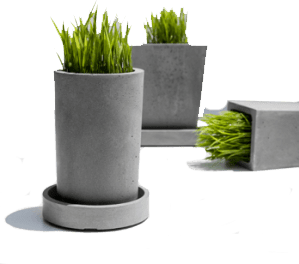
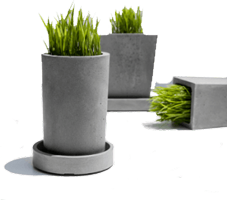
fx

diff --git a/stimlex/client_build/index.html b/stimlex/client_build/index.html
@@ -13,8 +13,8 @@
 
 	<meta property="og:type" content="website"/> 
 	<meta property="og:image" content="photo-og.png">
-	<meta property="og:image:width" content="299">
-	<meta property="og:image:height" content="264">
+	<meta property="og:image:width" content="227">
+	<meta property="og:image:height" content="200">
 	<meta property="og:description" content="Декоративные изделия из архитектурного бетона">
 	<meta property="og:title" content="Stimlex">
 
@@ -67,12 +67,6 @@
 				<button class="btn-white-mob" data-remodal-target="callback">Заказать звонок</button>
 
 				<img class="header__decorLeft" src="./images/vase-sm.png" alt role="presentation">
-
-
-				<!-- <img class="header__decorRight" src="./images/vase-big.png" alt role="presentation"> -->
-				<!-- <img class="header__decorRight" srcset="./images/vase-big-mob.png,
-				./images/vase-big.png"
-				src="./images/vase-big.png" alt role="presentation"> -->
 
 				<picture class="header__decorRight">
 					<source media="(max-width: 767px)" srcset="./images/vase-big-mob.png">
@@ -1006,7 +1000,7 @@
 			<div class="footer__box">
 				<div class="footer__logo">
 					<a href="index.html">
-						<img src="images/logo.png" alt="Stimlex" title="Stimlex">
+						<img src="./images/logo.png" alt="Stimlex" title="Stimlex">
 					</a>
 					<p class="footer__desc">Продажа изделий <br> из мытого бетона</p>
 				</div>

diff --git a/stimlex/client_src/index.html b/stimlex/client_src/index.html
@@ -13,8 +13,8 @@
 
 	<meta property="og:type" content="website"/> 
 	<meta property="og:image" content="photo-og.png">
-	<meta property="og:image:width" content="299">
-	<meta property="og:image:height" content="264">
+	<meta property="og:image:width" content="227">
+	<meta property="og:image:height" content="200">
 	<meta property="og:description" content="Декоративные изделия из архитектурного бетона">
 	<meta property="og:title" content="Stimlex">
 
@@ -67,12 +67,6 @@
 				<button class="btn-white-mob" data-remodal-target="callback">Заказать звонок</button>
 
 				<img class="header__decorLeft" src="./images/vase-sm.png" alt role="presentation">
-
-
-				<!-- <img class="header__decorRight" src="./images/vase-big.png" alt role="presentation"> -->
-				<!-- <img class="header__decorRight" srcset="./images/vase-big-mob.png,
-				./images/vase-big.png"
-				src="./images/vase-big.png" alt role="presentation"> -->
 
 				<picture class="header__decorRight">
 					<source media="(max-width: 767px)" srcset="./images/vase-big-mob.png">
@@ -1006,7 +1000,7 @@
 			<div class="footer__box">
 				<div class="footer__logo">
 					<a href="index.html">
-						<img src="images/logo.png" alt="Stimlex" title="Stimlex">
+						<img src="./images/logo.png" alt="Stimlex" title="Stimlex">
 					</a>
 					<p class="footer__desc">Продажа изделий <br> из мытого бетона</p>
 				</div>
